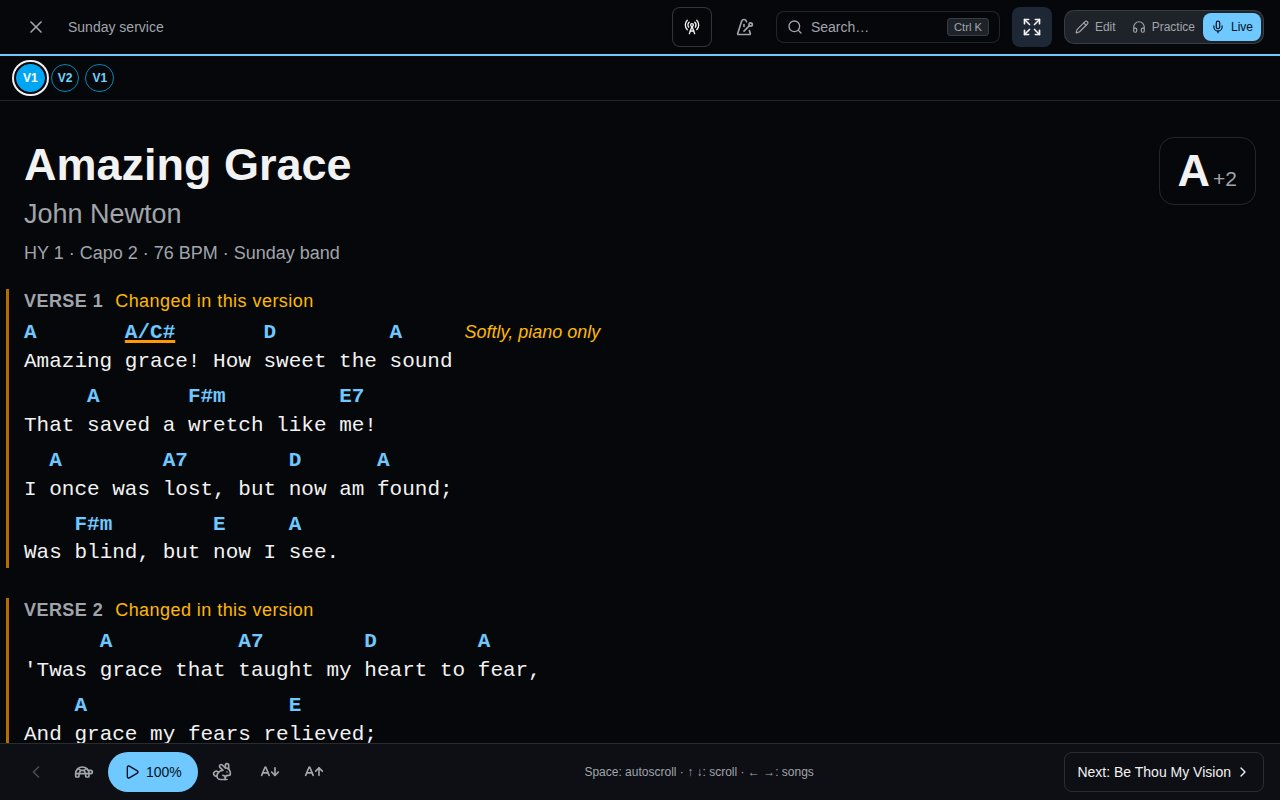
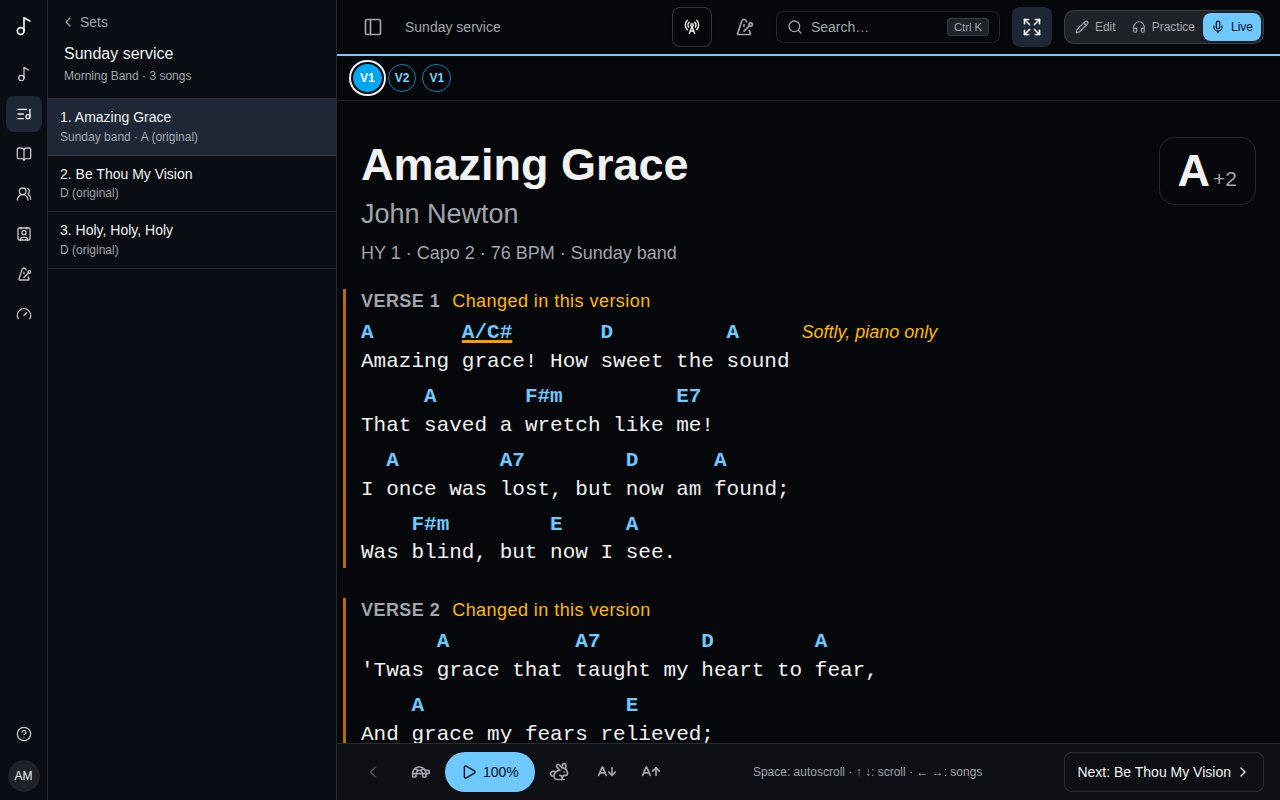
Live: the sidebar beside the song, the set's songs listed
Live's pages keep the app's sidebar: beside the song on a tablet or
computer (the rail and the set's songs, the played ones ticked), and on a
phone a sheet the header's sidebar button opens - where the x was. A song
pulled up with the search keeps its Back, now an arrow.

Closes #154

Claude-Session: https://claude.ai/code/session_01XvbKp5w1xAahmXxF5Cbbw1

diff --git a/apps/web/src/components/live-view.tsx b/apps/web/src/components/live-view.tsx
@@ -1,5 +1,5 @@
 import { chartSeconds, structureOf, type RenderedChart, type StructureGroup } from "@songverse/core";
-import { AArrowDown, AArrowUp, ChevronLeft, ChevronRight, Expand, Minus, Pause, Play, Plus, Rabbit, Shrink, Turtle, X } from "lucide-react";
+import { AArrowDown, AArrowUp, ArrowLeft, ChevronLeft, ChevronRight, Expand, Minus, Pause, Play, Plus, Rabbit, Shrink, Turtle } from "lucide-react";
 import { useEffect, useMemo, useRef, useState, type ReactNode, type RefObject, type TouchEvent } from "react";
 import { useTranslation } from "react-i18next";
 import { CommandSearch } from "#/components/command-search";
@@ -8,6 +8,7 @@ import { ModeSwitch } from "#/components/mode-switch";
 import { OfflineBanner } from "#/components/offline-banner";
 import { SongChart } from "#/components/song-chart";
 import { SyncControl } from "#/components/sync-control";
+import { SidebarTrigger } from "#/components/ui/sidebar";
 import { cn } from "#/lib/utils";
 
 const TEXT_SIZE_KEY = "songverse.liveTextSize";
@@ -36,8 +37,8 @@ export interface LiveSong {
   /** Where it is in the player's songbooks: "JEM 855 · JEM3" (issue #59). */
   references: string[];
   notes: { label?: string; text: string }[];
-  /** The × at the top left: back to the set, or wherever the song was pulled up from. */
-  exit: { label: string; go: () => void };
+  /** Back to wherever a song on its own was pulled up from (a set's song, say), beside the sidebar's button; a set's songs have the sidebar (issue #154). */
+  exit?: { label: string; go: () => void };
   /** Played through (issue #153): its chart scrolled to 95% - or, when it fits the screen, moved on from to the next song. */
   onPlayed?: () => void;
   /** Going through a set; both null for a song on its own. */
@@ -251,9 +252,13 @@ export function LiveView({ song }: { song: LiveSong }) {
     <div className="flex h-dvh flex-col bg-background text-foreground" data-testid="live-view">
       {/* Always the same height; the song's own title is at the top of its chart (issue #68). */}
       <header className="flex h-14 shrink-0 items-center gap-2 border-b-2 border-b-primary px-2 sm:gap-3 sm:px-4">
-        <IconButton label={song.exit.label} onClick={song.exit.go}>
-          <X />
-        </IconButton>
+        {/* The sidebar (issue #154): beside the song on a wider screen, a sheet on a phone. */}
+        <SidebarTrigger className="size-10 text-muted-foreground [&_svg]:size-5" data-testid="live-sidebar" />
+        {song.exit ? (
+          <IconButton label={song.exit.label} onClick={song.exit.go}>
+            <ArrowLeft />
+          </IconButton>
+        ) : null}
         <p className="min-w-0 flex-1 truncate text-sm font-medium text-muted-foreground" data-testid="live-set">
           {song.setName}
         </p>

diff --git a/apps/web/src/components/app-shell.tsx b/apps/web/src/components/app-shell.tsx
@@ -45,9 +45,15 @@ export function AppShell({
     [],
   );
   if (fullScreen) {
+    // Live (issue #154): the song takes the whole screen but the sidebar - on a
+    // wider screen open beside it, the set's songs listed; on a phone a sheet
+    // its header's button opens.
     return (
       <>
-        {children}
+        <SidebarProvider>
+          <ShellSidebar session={session} teams={teams} songbooks={songbooks} setlists={setlists} />
+          <div className="flex min-w-0 flex-1 flex-col">{children}</div>
+        </SidebarProvider>
         <StemReturnButton />
         <YouTubeHost />
         <SyncDetails />

diff --git a/apps/web/src/routes/_protected/sets/$setlistId_.live.$itemId.tsx b/apps/web/src/routes/_protected/sets/$setlistId_.live.$itemId.tsx
@@ -77,8 +77,6 @@ function SetLiveView({ view }: { view: SetlistSongView }) {
     // A copy kept before #59 has none.
     references: view.songbookReferences ?? [],
     notes: [...(item.notes ? [{ text: item.notes }] : []), ...(view.myNote ? [{ label: t("sets.myNotes"), text: view.myNote }] : [])],
-    // In Live a set's page opens Live (issue #153): back to the sets.
-    exit: { label: t("sets.backToSets"), go: () => void navigate({ to: "/sets" }) },
     onPlayed: () => markPlayed(set.id, item.id),
     previous: goTo(view.previousItemId),
     next: goTo(view.nextItemId),

diff --git a/apps/docs/src/content/docs/fr/sets.md b/apps/docs/src/content/docs/fr/sets.md
@@ -41,11 +41,11 @@ Cliquez sur un chant de la liste pour ouvrir sa grille, telle que la liste la jo
 
 ## Jouer une liste en live
 
-Sur scène, passez en mode **Live** - le bouton sur la page de la liste, ou le sélecteur de mode en haut à droite de chaque page. Songverse passe en sombre (reposant dans une salle peu éclairée) et chaque chant de la liste s'ouvre en plein écran, en grand, tel que vous le lisez avec [Mon affichage](/fr/versions/#votre-propre-affichage-dune-grille).
+Sur scène, passez en mode **Live** - le bouton sur la page de la liste, ou le sélecteur de mode en haut à droite de chaque page. Songverse passe en sombre (reposant dans une salle peu éclairée) et chaque chant de la liste occupe toute la page à côté de la barre latérale, en grand, tel que vous le lisez avec [Mon affichage](/fr/versions/#votre-propre-affichage-dune-grille).
 
 ![Un chant d'une liste en mode Live](../../../assets/screenshots/fr/live.jpg)
 
-- L'en-tête montre le nom de la liste ; **×** (**Retour aux listes**) revient à la liste des listes.
+- La barre latérale reste à côté du chant sur une tablette ou un ordinateur, avec les chants de la liste (les chants joués cochés) : touchez-en un pour y aller. Le bouton en haut à gauche la masque ou la réaffiche ; sur un téléphone, où il n'y a pas de place à côté du chant, il l'ouvre par-dessus. L'en-tête montre aussi le nom de la liste.
 - Dessous, la structure du chant : ses parties dans l'ordre où on les chante, en petits cercles - **S1** **R** **S2** **R** **P** **R** (strophe, refrain, pont…) - colorés par genre : intros et outros, strophes et pré-refrains, refrains, ponts et vamps, et instrumentaux, interludes et breaks ont chacun leur couleur. La partie en cours est entourée et celles déjà chantées sont pleines, au fil du défilement ; touchez-en une pour y aller.
 - Le chant commence par son titre et son artiste, son numéro de recueil (**JEM 855 · JEM3**), son capo et son tempo, et défile avec les accords et les paroles.
 - Sa tonalité est en haut à droite : **G**, avec un petit **+2** quand la liste le joue plus haut ou plus bas qu'écrit. Touchez-la pour transposer au dernier moment, avec **−** et **+** : seulement sur votre écran, pour ce chant, jusqu'à ce que vous le quittiez. **Revenir à la tonalité de la liste** l'annule.
@@ -64,7 +64,7 @@ En Live, choisir une liste - dans les listes, la barre latérale ou l'accueil - 
 
 ### Un chant qui n'est pas dans la liste
 
-Quand le leader lance un chant imprévu, utilisez la recherche (la loupe en haut) : par son titre, ou par son numéro s'il est annoncé ainsi (« Cantique 42 ! » : **CA 42**). En Live, le chant choisi s'ouvre lui aussi en plein écran, avec le défilement et votre taille de texte. **Retour** (**×**) revient au chant de la liste où vous étiez.
+Quand le leader lance un chant imprévu, utilisez la recherche (la loupe en haut) : par son titre, ou par son numéro s'il est annoncé ainsi (« Cantique 42 ! » : **CA 42**). En Live, le chant choisi s'ouvre de la même façon, avec le défilement et votre taille de texte. **Retour** (la flèche à côté du bouton de la barre latérale) revient au chant de la liste où vous étiez.
 
 ## Jouer synchronisé
 

diff --git a/apps/docs/src/content/docs/sets.md b/apps/docs/src/content/docs/sets.md
@@ -41,11 +41,11 @@ Click a song in the set to open its chart, as the set plays it: its version, in 
 
 ## Playing a set live
 
-On stage, switch to **Live** - the button on the set's page, or the mode switch at the top right of every page. Songverse turns dark (easy on the eyes in a dim room) and each song of the set opens full screen, big, as you read it with [My view](/versions/#your-own-view-of-a-chart).
+On stage, switch to **Live** - the button on the set's page, or the mode switch at the top right of every page. Songverse turns dark (easy on the eyes in a dim room) and each song of the set takes the whole page beside the sidebar, big, as you read it with [My view](/versions/#your-own-view-of-a-chart).
 
 ![A song of a set in Live mode](../../assets/screenshots/en/live.jpg)
 
-- The header shows the set's name; **×** (**Back to sets**) goes back to the list of sets.
+- The sidebar stays beside the song on a tablet or computer, with the set's songs listed (the played ones ticked): tap one to go to it. The button at the top left hides it or shows it again; on a phone, where there's no room beside the song, it opens the sidebar over it. The header also shows the set's name.
 - Under it, the song's structure: its parts in the order they're sung, as small circles - **V1** **C** **V2** **C** **B** **C** (verse, chorus, bridge...) - coloured by kind: intros and outros, verses and pre-choruses, choruses, bridges and vamps, and instrumentals, interludes and breakdowns each have their own colour. The part being sung is ringed and the ones sung are filled, as the song scrolls; tap one to go there.
 - The song starts with its title and artist, its songbook number (**JEM 855 · JEM3**), capo and tempo, and scrolls with the chords and words.
 - Its key is at the top right: **G**, with a small **+2** when the set plays it higher or lower than written. Tap it to transpose at the last moment, with **−** and **+**: only on your screen, for this song, until you leave it. **Back to the set's key** undoes it.
@@ -64,7 +64,7 @@ In Live, picking a set - from the list of sets, the sidebar or the home page - o
 
 ### A song that isn't in the set
 
-When the leader calls a song that wasn't planned, use the search (the magnifying glass at the top): by its title, or by its number when it's called that way ("Hymn 42!": **HY 42**). In Live, a song you pick opens full screen too, with autoscroll and your text size. **Back** (**×**) returns to the set's song you were on.
+When the leader calls a song that wasn't planned, use the search (the magnifying glass at the top): by its title, or by its number when it's called that way ("Hymn 42!": **HY 42**). In Live, a song you pick opens the same way, with autoscroll and your text size. **Back** (the arrow beside the sidebar button) returns to the set's song you were on.
 
 ## Playing in sync
 
